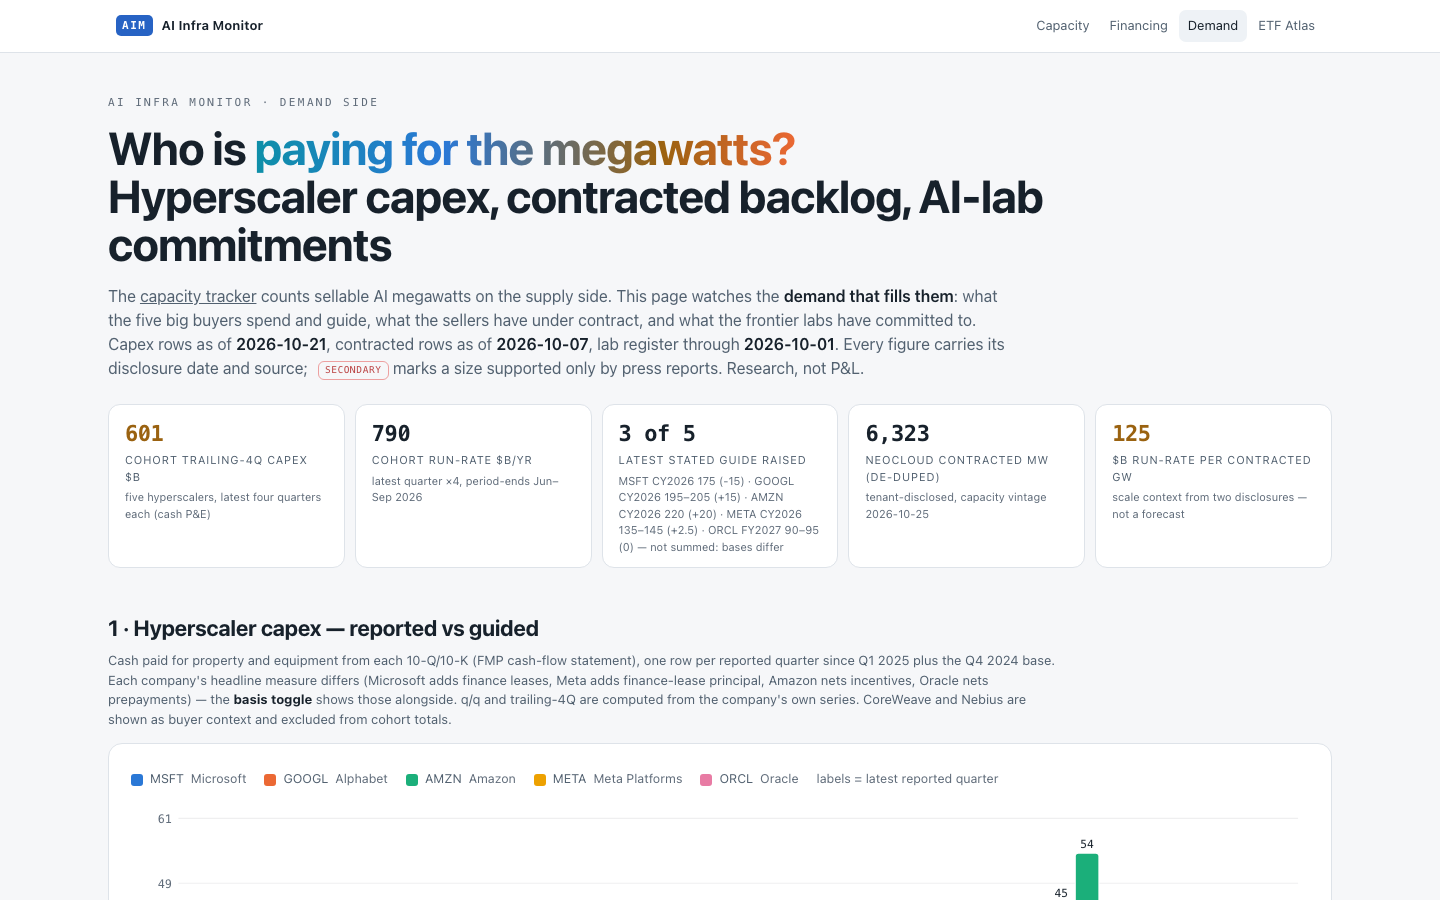
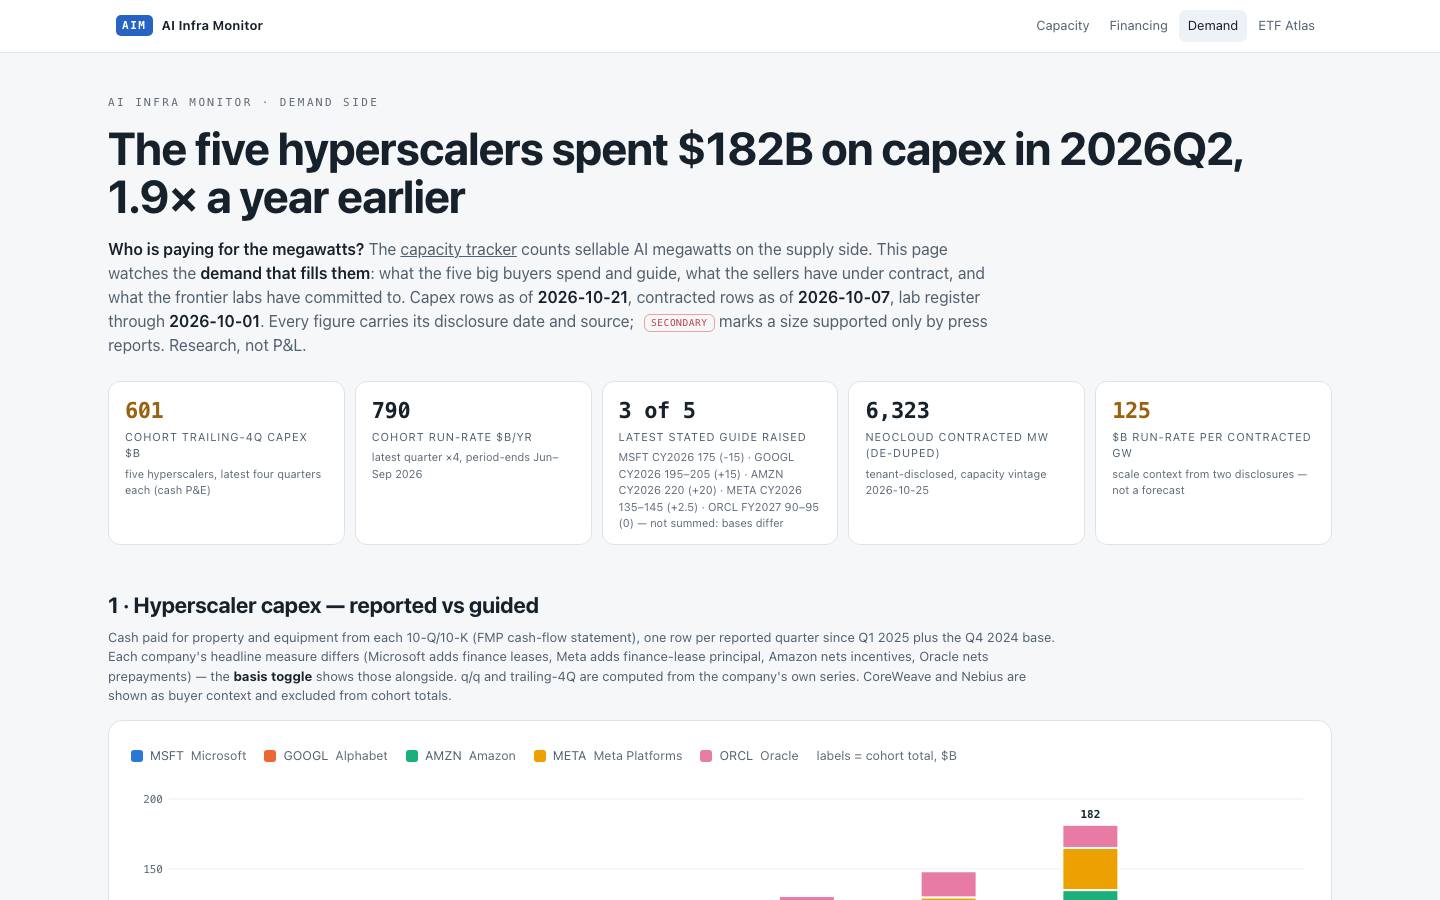
README: per-dashboard sections and screenshots of the redesigned pages

diff --git a/README.md b/README.md
@@ -15,26 +15,56 @@ company disclosures.**
 
 ## The dashboards
 
-| Dashboard | Side of the trade | What it tracks | Data |
+Four pages, one per side of the trade. Every figure carries its source and as-of date.
+
+| Dashboard | Side of the trade | The question it answers | Data |
 | --- | --- | --- | --- |
-| [AI Capacity Tracker](https://ewyluda.github.io/ai-infra-monitor/neocloud-capacity-tracker.html) | Supply | Who has the AI megawatts: neoclouds, ex-miner landlords and hyperscalers, with operational, under-construction and planned critical-IT MW, value per megawatt, and the power deals behind them. Same data as [MacroGauge's capacity page](https://macrogauge-cloudten.vercel.app/capacity). | [JSON](site/data/capacity.json) |
-| [Neocloud Financing Ledger](https://ewyluda.github.io/ai-infra-monitor/neocloud-financing-ledger.html) | Capital stack | Every debt instrument behind the buildout: maturity wall, drawn versus committed facilities, converts and vendor financing, reconciled issuer by issuer to the filings. | [JSON](site/data/neocloud-financing-ledger.json) |
-| [AI Demand Monitor](https://ewyluda.github.io/ai-infra-monitor/ai-demand-monitor.html) | Demand | Hyperscaler capex by quarter, contracted backlog, and the AI-lab compute commitments behind it, each tied to the filing or call. | [JSON](site/data/ai-demand-monitor.json) |
-| [AI Infrastructure ETF Atlas](https://ewyluda.github.io/ai-infra-monitor/ai-infrastructure-etf-atlas.html) | Listed exposure | Six listed routes into the physical buildout, from power and grid to photonics, memory and neocloud compute, with issuer-sourced holdings look-through. | [JSON](site/data/ai-infrastructure-etfs.json) |
+| [AI Capacity Tracker](https://ewyluda.github.io/ai-infra-monitor/neocloud-capacity-tracker.html) | Supply | Who has the AI megawatts? | [JSON](site/data/capacity.json) |
+| [Neocloud Financing Ledger](https://ewyluda.github.io/ai-infra-monitor/neocloud-financing-ledger.html) | Capital stack | What debt carries the build, and when is it due? | [JSON](site/data/neocloud-financing-ledger.json) |
+| [AI Demand Monitor](https://ewyluda.github.io/ai-infra-monitor/ai-demand-monitor.html) | Demand | Who is paying for the megawatts? | [JSON](site/data/ai-demand-monitor.json) |
+| [AI Infrastructure ETF Atlas](https://ewyluda.github.io/ai-infra-monitor/ai-infrastructure-etf-atlas.html) | Listed exposure | Which fund owns which bottleneck? | [JSON](site/data/ai-infrastructure-etfs.json) |
+
+### AI Capacity Tracker
+
+Neoclouds, ex-miner landlords, hyperscalers and AI labs, with operational, under-construction and
+planned critical-IT megawatts, enterprise value per megawatt, the energization schedule by
+quarter, a campus map, and the power and tenant deals behind each site. It renders
+[MacroGauge's capacity dataset](https://macrogauge-cloudten.vercel.app/capacity) as published, so
+both sites show the same figures.
 
 <img alt="AI Capacity Tracker: headline finding, capacity and enterprise-value tiles, and the view tabs" src="docs/img/neocloud-capacity-tracker.png">
 
-<img alt="Neocloud Financing Ledger: the maturity wall by year and instrument type" src="docs/img/neocloud-financing-ledger.png">
+### Neocloud Financing Ledger
 
-<img alt="AI Demand Monitor: hyperscaler capex by quarter and contracted backlog" src="docs/img/ai-demand-monitor.png">
+One row per debt instrument across the levered AI-infrastructure cohort: what is owed, to whom,
+when, and on what terms. The cohort maturity wall is split by convert moneyness against today's
+price, alongside drawn versus committed facilities and each issuer's net debt, reconciled to the
+capacity tracker with disagreements flagged rather than overwritten.
 
-<img alt="AI Infrastructure ETF Atlas: 2026 performance of six AI infrastructure ETFs and their holdings" src="docs/img/ai-infrastructure-etf-atlas.png">
+<img alt="Neocloud Financing Ledger: the 2030–32 debt wall, split into converts below break-even, converts near break-even and other financial debt" src="docs/img/neocloud-financing-ledger.png">
+
+### AI Demand Monitor
+
+What the five big buyers spend and guide, quarter by quarter, against what the sellers have under
+contract (RPO and backlog) and the register of frontier-lab compute commitments. A cross-check
+sets buyer spend against contracted neocloud megawatts. Sizes supported only by press reports are
+marked as secondary.
+
+<img alt="AI Demand Monitor: headline finding on hyperscaler capex, cohort tiles, and stacked quarterly capex by company" src="docs/img/ai-demand-monitor.png">
+
+### AI Infrastructure ETF Atlas
+
+Six listed routes into the physical buildout, from power delivery and the grid to photonics,
+memory, GPU capacity and data center real estate. Returns are compared from a common start date,
+then each fund is broken down into its sleeves and top holdings from the issuer's own holdings
+file, with holdings overlap set against return correlation.
+
+<img alt="AI Infrastructure ETF Atlas: six ETFs rebased to a common start date, with single-bottleneck funds solid and broad baskets dashed" src="docs/img/ai-infrastructure-etf-atlas.png">
 
 ## Data sources
 
 - **Capacity:** [MacroGauge](https://macrogauge-cloudten.vercel.app/capacity)'s published capacity
-  dataset, rendered as published, so both sites show the same figures. It is curated from filings,
-  with each figure's source and date in the JSON.
+  dataset, curated from filings, with each figure's source and date in the JSON.
 - **Financing and demand:** 10-Ks, 10-Qs, 8-Ks, investor presentations and earnings calls. Each
   figure carries its source and date in the page and in the JSON.
 - **ETF holdings:** each issuer's published holdings file.
@@ -46,8 +76,9 @@ company disclosures.**
 ## How it works
 
 The capacity page renders MacroGauge's published capacity dataset. The other dashboards are
-maintained in a private research repository, where each one has a single JSON source of truth, a refresh script, and a contract check that fails when the page and the data
-disagree. A tested export step builds this site from those sources:
+maintained in a private research repository, where each one has a single JSON source of truth, a
+refresh script, and a contract check that fails when the page and the data disagree. A tested
+export step builds this site from those sources:
 
 1. Copies the published pages and nothing else, and rewrites every link that pointed into the
    private repository.
